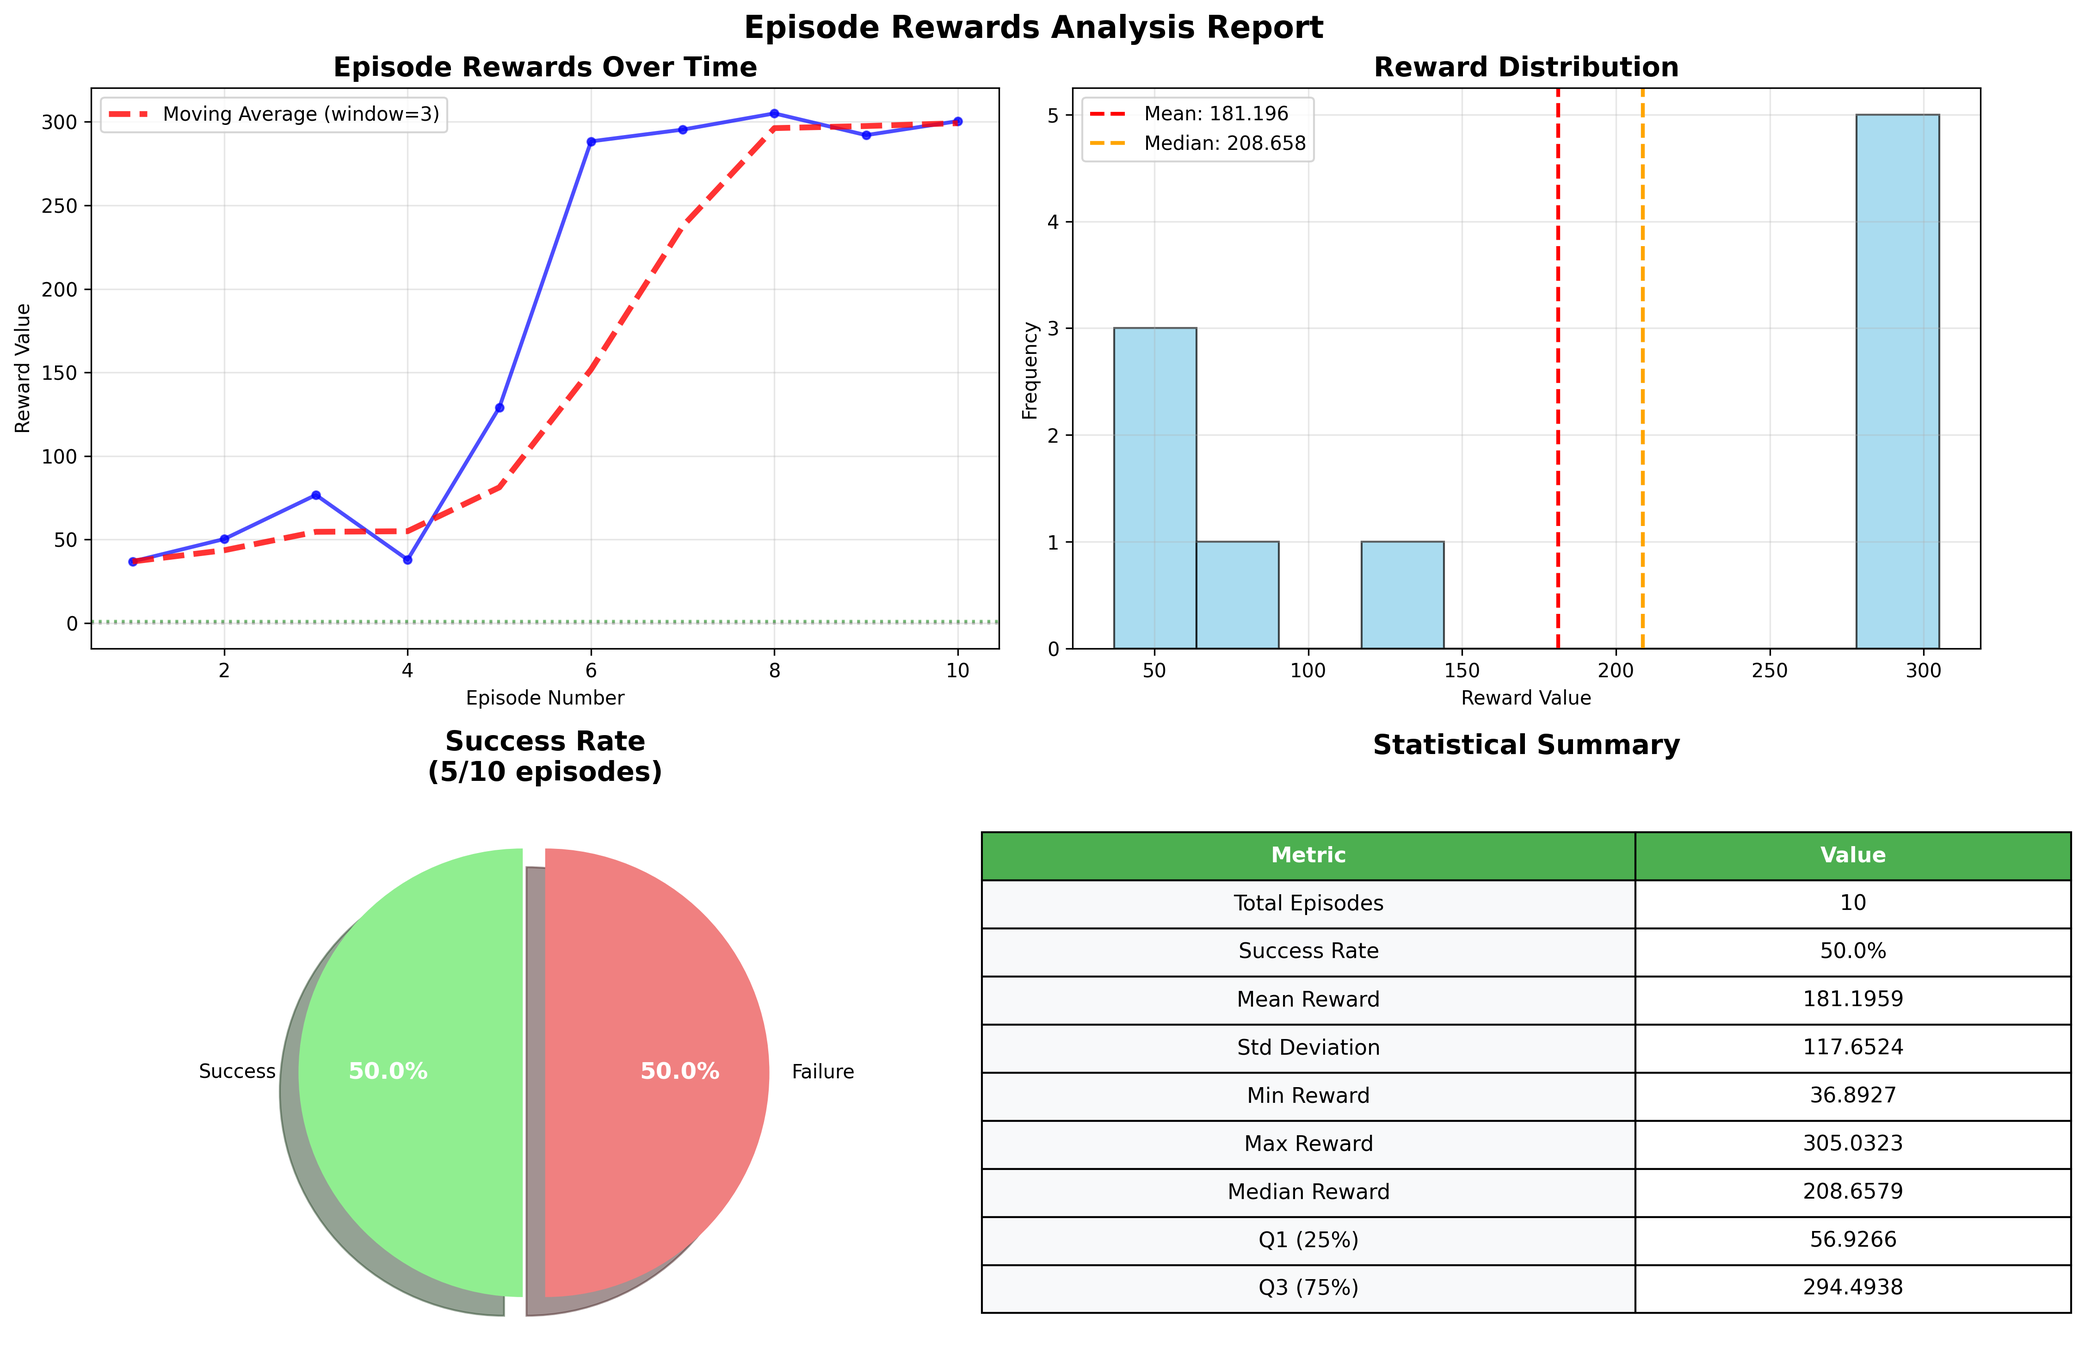
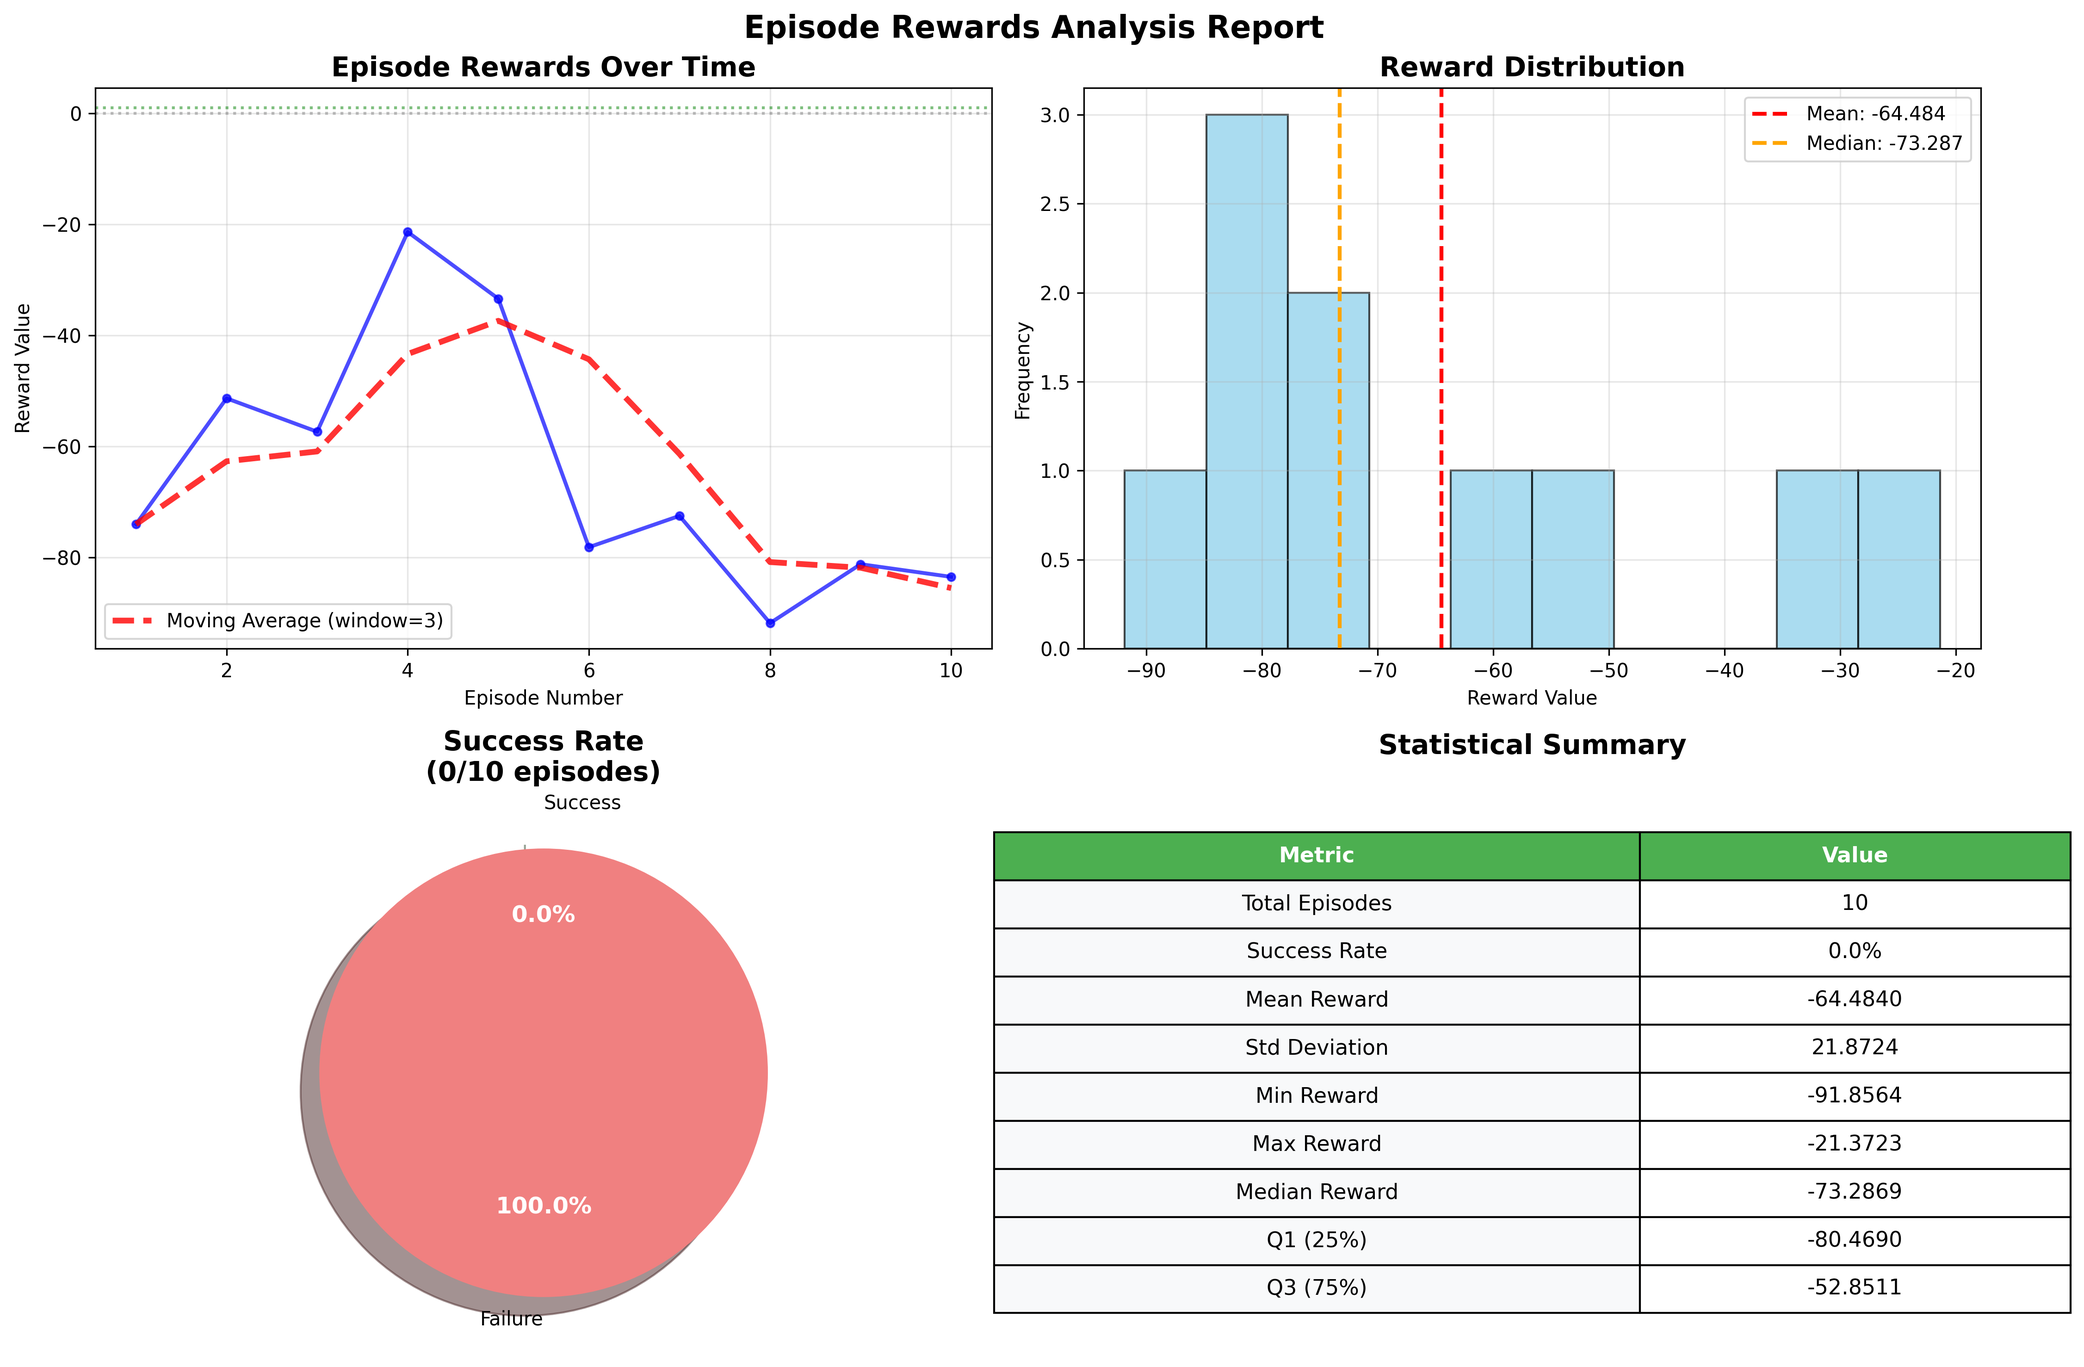
feat:奖励分阶段获取, 增加时间惩罚

diff --git a/lerobot/gym_hil/envs/rl_kuavo_gym_env.py b/lerobot/gym_hil/envs/rl_kuavo_gym_env.py
@@ -722,10 +722,10 @@ class RLKuavoGymEnv(IsaacLabGymEnv):
 
     def _compute_reward_and_done(self, obs: Dict[str, np.ndarray]) -> Tuple[float, bool, Dict[str, Any]]:
         """
-        分阶段奖励函数（修复版）：
+        分阶段奖励函数（修复累积奖励问题版）：
         - 阶段1 (dist_torso_to_box > 0.5): 靠近箱子阶段
         - 阶段2 (dist_torso_to_box <= 0.5): 抓取箱子阶段
-        - 修复了奖励尺度问题，使其适合SAC训练
+        - 修复了奖励累积和终端条件问题
         """
         info = {}
         
@@ -756,18 +756,19 @@ class RLKuavoGymEnv(IsaacLabGymEnv):
         dist_right_hand_to_box = np.linalg.norm(right_eef_pos - box_pos)
         dist_torso_to_box = np.linalg.norm(torso_pos - box_pos)
 
-        # Base step penalty to encourage efficiency (reduced)
-        reward = -0.005  # Reduced from -0.01
+        # Base step penalty to encourage efficiency
+        reward = -0.01  # Increased from -0.005 to discourage time-wasting
         
         # Check success conditions
         z_lift = box_pos[2] - self.initial_box_pose['position'][2]
         
-        # Box fallen penalty - terminal condition (reduced scale)
-        box_fallen = z_lift < -0.5
+        # FIXED: Much stricter box fallen detection and severe penalty
+        box_fallen = z_lift < -0.2  # STRICTER: from -0.5 to -0.2
         if box_fallen:
-            reward -= 10.0  # Reduced from -50.0
+            reward -= 100.0  # SEVERE PENALTY: from -10.0 to -100.0
             terminated = True
             info["box_fallen"] = True
+            info["failure_reason"] = "box_dropped"
         else:
             terminated = False
             info["box_fallen"] = False
@@ -775,6 +776,27 @@ class RLKuavoGymEnv(IsaacLabGymEnv):
         # Success conditions
         lift_success = z_lift > 0.15  # Must lift box at least 15cm
         hands_close_success = (dist_left_hand_to_box < 0.3) and (dist_right_hand_to_box < 0.3)
+        
+        # FIXED: Reasonable timeout penalty - per-step penalty, not cumulative
+        timeout_penalty = 0.0
+        extreme_delay_penalty = 0.0
+        
+        if self.episode_step_count >= 150:  # Start gentle penalty
+            timeout_penalty = 0.05  # Small fixed penalty per step after 150
+            reward -= timeout_penalty
+            info["approaching_timeout"] = True
+            info["timeout_penalty"] = timeout_penalty
+        else:
+            info["approaching_timeout"] = False
+            info["timeout_penalty"] = 0.0
+            
+        # More aggressive penalty for extreme delays
+        if self.episode_step_count >= 180:
+            extreme_delay_penalty = 0.2  # Higher but still reasonable penalty per step
+            reward -= extreme_delay_penalty
+            info["extreme_delay_penalty"] = extreme_delay_penalty
+        else:
+            info["extreme_delay_penalty"] = 0.0
         
         # ============= STAGE-BASED REWARD SYSTEM =============
         
@@ -802,13 +824,13 @@ class RLKuavoGymEnv(IsaacLabGymEnv):
         mean_joint_deviation_deg = np.rad2deg(mean_joint_deviation_rad)
         # Reward for being close to default positions (higher reward for smaller deviation)
         # Use degree-based deviation for more intuitive scaling
-        default_joint_reward = np.exp(-0.05 * mean_joint_deviation_deg) * 0.5  # Max 0.5 reward
+        default_joint_reward = np.exp(-0.05 * mean_joint_deviation_deg) * 0.5
         
         if is_approach_stage:
             # ========== STAGE 1: APPROACH STAGE ==========
             
-            # 1. Default joint reward (FIXED: correct weight as requested)
-            reward += default_joint_reward * 0.3  # FIXED: was 1.0, now 0.3 as requested
+            # 1. Default joint reward (correct weight as requested)
+            reward += default_joint_reward * 0.3
             
             # 2. Torso approaching box reward
             if self.last_dist_torso_to_box is not None:
@@ -827,7 +849,7 @@ class RLKuavoGymEnv(IsaacLabGymEnv):
             reward += torso_proximity_reward
             info["torso_proximity_reward"] = torso_proximity_reward
             
-            # 4. ADDED: Progressive approach reward to make success less sparse
+            # 4. Progressive approach reward to make success less sparse
             if dist_torso_to_box < 1.0:
                 approach_progress_reward = (1.0 - dist_torso_to_box) * 1.0  # Max 1.0 when very close
                 reward += approach_progress_reward
@@ -842,19 +864,19 @@ class RLKuavoGymEnv(IsaacLabGymEnv):
             # 1. Default joint reward (maintain comfortable posture)
             reward += default_joint_reward * 0.2
             
-            # 2. Final success reward - SIGNIFICANTLY REDUCED SCALE
+            # 2. Final success reward - INCREASED to make success more attractive than time-wasting
             if lift_success and hands_close_success:
-                # Base success reward (REDUCED from 100.0)
-                base_success_reward = 15.0  # Much more reasonable!
+                # Base success reward (INCREASED to dominate over process rewards)
+                base_success_reward = 50.0  # INCREASED from 15.0
                 
-                # Efficiency bonus based on episode steps (FIXED optimal steps)
+                # Efficiency bonus based on episode steps
                 optimal_steps = 120  # More realistic for 200-step episodes
-                max_efficiency_bonus = 10.0  # REDUCED from 150.0
+                max_efficiency_bonus = 50.0  # INCREASED from 10.0
                 
                 if self.episode_step_count <= optimal_steps:
                     efficiency_bonus = max_efficiency_bonus
                 else:
-                    step_penalty = (self.episode_step_count - optimal_steps) * 0.1  # Gentler penalty
+                    step_penalty = (self.episode_step_count - optimal_steps) * 0.5  # MORE aggressive penalty
                     efficiency_bonus = max(0.0, max_efficiency_bonus - step_penalty)
                 
                 total_success_reward = base_success_reward + efficiency_bonus
@@ -867,48 +889,106 @@ class RLKuavoGymEnv(IsaacLabGymEnv):
                 info["episode_steps"] = self.episode_step_count
             
             else:
-                # Guidance rewards for grasping behavior
+                # Guidance rewards for grasping behavior - FIXED: All rewards now based on IMPROVEMENT
                 
-                # Hand-to-box approach rewards (now active in grasp stage)
-                if dist_left_hand_to_box < 0.8:
-                    left_hand_reward = (0.8 - dist_left_hand_to_box) * 1.0  # Increased from 0.5
-                    reward += left_hand_reward
-                    info["left_hand_approach_reward"] = left_hand_reward
+                # FIXED: Hand-to-box approach rewards - Only reward IMPROVEMENT, not maintaining position
+                if self.last_dist_left_hand_to_box is not None:
+                    left_distance_change = self.last_dist_left_hand_to_box - dist_left_hand_to_box
+                    if left_distance_change > 0.01:  # Only significant improvement
+                        left_hand_reward = left_distance_change * 10.0  # Reward improvement
+                        reward += left_hand_reward
+                        info["left_hand_approach_reward"] = left_hand_reward
+                else:
+                    info["left_hand_approach_reward"] = 0.0
                 
-                if dist_right_hand_to_box < 0.8:
-                    right_hand_reward = (0.8 - dist_right_hand_to_box) * 1.0  # Increased from 0.5
-                    reward += right_hand_reward
-                    info["right_hand_approach_reward"] = right_hand_reward
+                if self.last_dist_right_hand_to_box is not None:
+                    right_distance_change = self.last_dist_right_hand_to_box - dist_right_hand_to_box
+                    if right_distance_change > 0.01:  # Only significant improvement
+                        right_hand_reward = right_distance_change * 10.0  # Reward improvement
+                        reward += right_hand_reward
+                        info["right_hand_approach_reward"] = right_hand_reward
+                else:
+                    info["right_hand_approach_reward"] = 0.0
                 
-                # Bonus for both hands being close
-                if dist_left_hand_to_box < 0.4 and dist_right_hand_to_box < 0.4:
-                    both_hands_close_bonus = 1.5  # Increased from 0.8
+                # FIXED: Bonus for both hands being close - ONLY once when first achieved
+                if not hasattr(self, 'both_hands_close_achieved'):
+                    self.both_hands_close_achieved = False
+                
+                if (dist_left_hand_to_box < 0.4 and dist_right_hand_to_box < 0.4 and 
+                    not self.both_hands_close_achieved):
+                    both_hands_close_bonus = 5.0  # One-time bonus
                     reward += both_hands_close_bonus
+                    self.both_hands_close_achieved = True
                     info["both_hands_close_bonus"] = both_hands_close_bonus
+                    info["first_time_both_hands_close"] = True
+                else:
+                    info["both_hands_close_bonus"] = 0.0
+                    info["first_time_both_hands_close"] = False
                 
-                # Box lifting progress reward (ENHANCED for less sparse rewards)
-                if z_lift > 0.02:  # Lower threshold
-                    if z_lift > 0.15:
-                        box_lift_reward = 8.0  # Keep good lift reward
-                    elif z_lift > 0.10:
-                        box_lift_reward = 5.0  # Increased from 3.0
-                    elif z_lift > 0.05:
-                        box_lift_reward = 2.0  # New intermediate reward
+                # Reset the flag if hands move away
+                if (dist_left_hand_to_box > 0.5 or dist_right_hand_to_box > 0.5):
+                    self.both_hands_close_achieved = False
+                
+                # FIXED: Box lifting progress reward with ANTI-EXPLOITATION measures
+                if z_lift > 0.02:
+                    # FIXED: Prevent exploitation by limiting lift reward accumulation
+                    # Only reward meaningful lift progress, not just maintaining position
+                    if not hasattr(self, 'max_z_lift_achieved'):
+                        self.max_z_lift_achieved = 0.0
+                    
+                    # Only give lift reward for NEW progress, not maintaining old progress
+                    if z_lift > self.max_z_lift_achieved:
+                        lift_progress = z_lift - self.max_z_lift_achieved
+                        self.max_z_lift_achieved = z_lift
+                        
+                        if z_lift > 0.15:
+                            box_lift_reward = 15.0  # One-time reward for achieving success height
+                        elif z_lift > 0.10:
+                            box_lift_reward = lift_progress * 50.0  # Reward for significant progress
+                        elif z_lift > 0.05:
+                            box_lift_reward = lift_progress * 30.0  # Reward for moderate progress
+                        else:
+                            box_lift_reward = lift_progress * 20.0  # Reward for small progress
+                        
+                        reward += box_lift_reward
+                        info["box_lift_reward"] = box_lift_reward
+                        info["lift_progress"] = lift_progress
                     else:
-                        box_lift_reward = z_lift * 20.0  # Progressive lift (increased multiplier)
-                    reward += box_lift_reward
-                    info["box_lift_reward"] = box_lift_reward
+                        # NO reward for just maintaining position - prevents time-wasting
+                        info["box_lift_reward"] = 0.0
+                        info["maintaining_position"] = True
+                else:
+                    # Reset max achievement if box falls below threshold
+                    self.max_z_lift_achieved = 0.0
                 
-                # Hand symmetry reward (for stable grasping)
-                if dist_left_hand_to_box < 0.5 and dist_right_hand_to_box < 0.5:
+                # FIXED: Hand symmetry reward - ONLY once when first achieved
+                if not hasattr(self, 'good_symmetry_achieved'):
+                    self.good_symmetry_achieved = False
+                
+                if (dist_left_hand_to_box < 0.5 and dist_right_hand_to_box < 0.5 and 
+                    not self.good_symmetry_achieved):
                     box_to_left = left_eef_pos - box_pos
                     box_to_right = right_eef_pos - box_pos
                     left_yz = box_to_left[1:]  # y,z components
                     right_yz = box_to_right[1:]  # y,z components
                     symmetry_error = np.linalg.norm(left_yz + right_yz)
-                    symmetry_reward = np.exp(-3.0 * symmetry_error) * 0.5  # Increased from 0.3
-                    reward += symmetry_reward
-                    info["symmetry_reward"] = symmetry_reward
+                    
+                    if symmetry_error < 0.2:  # Good symmetry threshold
+                        symmetry_reward = 3.0  # One-time bonus for achieving good symmetry
+                        reward += symmetry_reward
+                        self.good_symmetry_achieved = True
+                        info["symmetry_reward"] = symmetry_reward
+                        info["first_time_good_symmetry"] = True
+                    else:
+                        info["symmetry_reward"] = 0.0
+                        info["first_time_good_symmetry"] = False
+                else:
+                    info["symmetry_reward"] = 0.0
+                    info["first_time_good_symmetry"] = False
+                
+                # Reset symmetry flag if hands move away
+                if (dist_left_hand_to_box > 0.6 or dist_right_hand_to_box > 0.6):
+                    self.good_symmetry_achieved = False
             
             info["stage_focus"] = "grasp_manipulation"
         
@@ -946,8 +1026,12 @@ class RLKuavoGymEnv(IsaacLabGymEnv):
         self.last_right_eef_pos = right_eef_pos.copy()
         self.last_dist_torso_to_box = dist_torso_to_box
         
-        # Final reward clipping - MUCH MORE REASONABLE RANGE
-        reward = np.clip(reward, -15.0, 30.0)  # FIXED: was [-5.0, 300.0]
+        # FIXED: Update hand distance tracking for improvement-based rewards
+        self.last_dist_left_hand_to_box = dist_left_hand_to_box
+        self.last_dist_right_hand_to_box = dist_right_hand_to_box
+        
+        # Final reward clipping - ADJUSTED for new improvement-based reward scale
+        reward = np.clip(reward, -150.0, 120.0)  # ADJUSTED: accommodate success rewards and timeout penalties
         
         # Termination check
         if not box_fallen:
@@ -976,6 +1060,13 @@ class RLKuavoGymEnv(IsaacLabGymEnv):
             else:
                 print(f"  Focus: Hand manipulation and grasping")
                 print(f"  Hand distances - L: {dist_left_hand_to_box:.3f}, R: {dist_right_hand_to_box:.3f}")
+                if hasattr(self, 'max_z_lift_achieved'):
+                    print(f"  Max lift achieved: {self.max_z_lift_achieved:.3f}")
+                    
+                # Print achievement flags for debugging
+                hands_close_flag = getattr(self, 'both_hands_close_achieved', False)
+                symmetry_flag = getattr(self, 'good_symmetry_achieved', False)
+                print(f"  Achievement flags - Hands close: {hands_close_flag}, Good symmetry: {symmetry_flag}")
         
         return reward, terminated, info
 
@@ -1074,6 +1165,16 @@ class RLKuavoGymEnv(IsaacLabGymEnv):
         
         # Reset step counter for efficiency reward
         self.episode_step_count = 0
+        
+        # FIXED: Reset lift progress tracking to prevent cross-episode exploitation
+        if hasattr(self, 'max_z_lift_achieved'):
+            self.max_z_lift_achieved = 0.0
+            
+        # FIXED: Reset achievement flags to prevent cross-episode exploitation
+        if hasattr(self, 'both_hands_close_achieved'):
+            self.both_hands_close_achieved = False
+        if hasattr(self, 'good_symmetry_achieved'):
+            self.good_symmetry_achieved = False
 
         return obs_stable, {}
 

diff --git a/lerobot/config/Isaac_lab_kuavo_env/obs_image_dataset.py b/lerobot/config/Isaac_lab_kuavo_env/obs_image_dataset.py
@@ -217,7 +217,7 @@ def format_stats_for_config(stats_dict):
 
 if __name__ == "__main__":
     # 使用示例
-    repo_id = "KANGKKANG/rl_kuavo_724_1015"
+    repo_id = "KANGKKANG/rl_kuavo_724_1615"
     
     # 方法1：使用预计算的统计信息
     print("方法1：使用预计算的统计信息")
